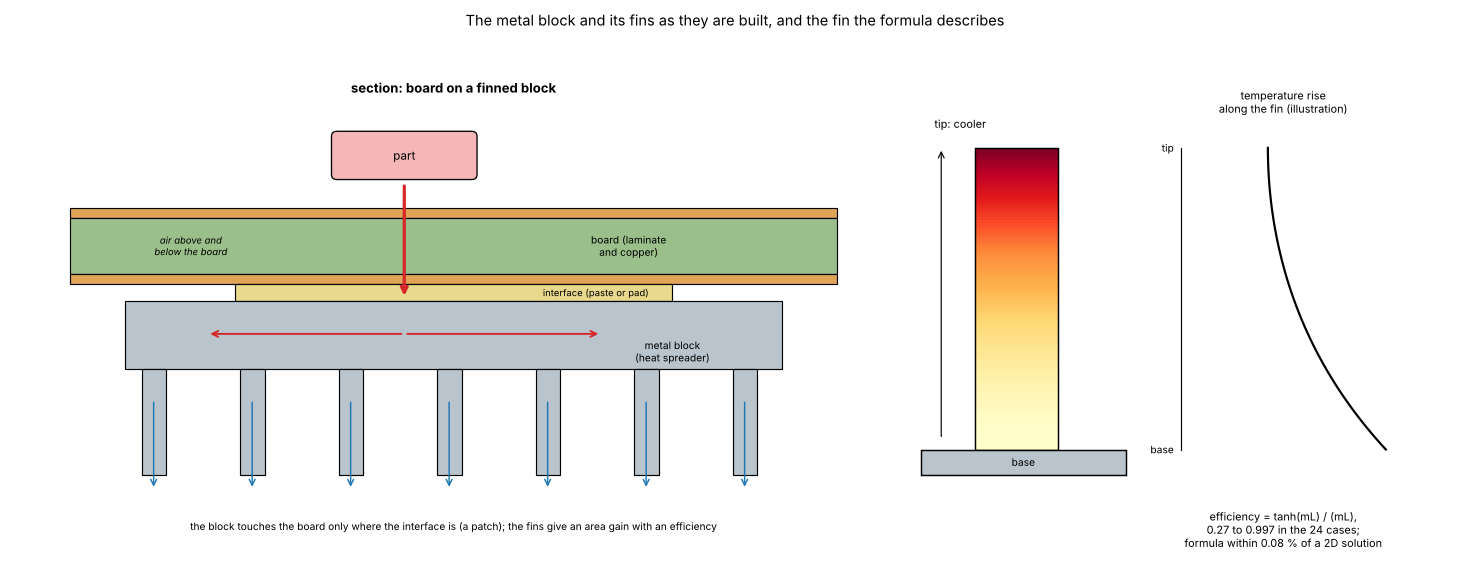
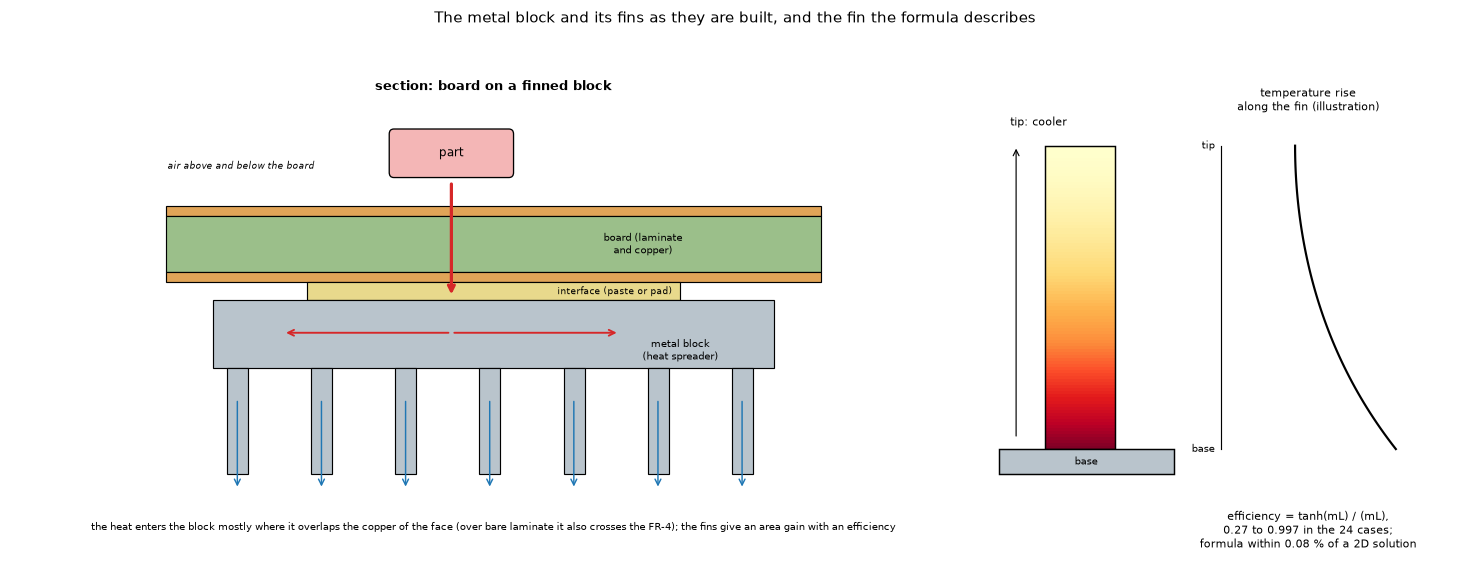
Record that the clean-machine timing waits for the maintainer's order
Claude-Session: https://claude.ai/code/session_012GdjNDamebGatEReFh4rLb

diff --git a/research/block-and-fins/scripts/make_figures.py b/research/block-and-fins/scripts/make_figures.py
@@ -3,8 +3,8 @@
 @brief Pictures of the metal-block and fin studies, written to figures/ (committed, linked from the README files).
 
 @details The numbers come from running the two studies of this folder and reading what they print.
-         fig_01: the fin formula of the program against a 2D solution of one fin (24 cases); fig_02: error of the Lumped and Analytic models on 62 block cases for the three
-         approaches (mean and maximum); fig_03: the error of every case, earlier equivalent coefficient against the implemented block model.
+         fig_01: the fin formula of the program against a 2D solution of one fin (24 cases); fig_02: error of the Lumped and Analytic models on the 74 block cases for the three
+         approaches (mean and maximum); fig_03: the error of every case, earlier equivalent coefficient (Lumped) against the implemented block models (Lumped and Analytic).
 Usage: python research/block-and-fins/scripts/make_figures.py   (from the repository root; about 20 seconds)
 """
 
@@ -98,10 +98,11 @@ def fig_blocks():
     xs = np.arange(len(cases))
     ax.plot(xs, [c[1] for c in cases], "o", color="#9ca3af", label="Lumped, earlier equivalent coefficient")
     ax.plot(xs, [c[3] for c in cases], "o", color="#d97706", label="Lumped, block as a ring layer")
+    ax.plot(xs, [c[4] for c in cases], "s", ms=4, color="#1d4ed8", label="Analytic, block as a tile graph")
     ax.axhline(0, color="black", lw=0.8)
     ax.set_xlabel("Case (block and pad geometry, thickness, metal, interface, fins)")
     ax.set_ylabel("Error of Tmax (%)")
-    ax.set_title("Every case: the coefficient is hot (+), the block layer stays within a few percent", fontsize=10)
+    ax.set_title("Every case: the coefficient is hot (+), the block models stay within a few percent", fontsize=10)
     ax.legend(fontsize=8)
     fig.tight_layout()
     fig.savefig(OUT / "fig_03_block_error_per_case.png", dpi=110)

diff --git a/research/block-and-fins/scripts/make_diagrams.py b/research/block-and-fins/scripts/make_diagrams.py
@@ -135,13 +135,13 @@ def block_section(path):
     for k in range(7):
         dk.arrow(a1, 2.52 + k * 1.8, 1.8, 2.52 + k * 1.8, 0.0, color=dk.BLUE, width=1.0)
     a1.text(8, 7.9, "section: board on a finned block", ha="center", fontsize=9, fontweight="bold")
-    a1.text(3.2, 4.85, "air above and\nbelow the board", ha="center", va="center", fontsize=6.5, style="italic")
-    a1.text(8, -0.8, "the block touches the board only where the interface is (a patch); the fins give an area gain with an efficiency", ha="center", fontsize=7)
+    a1.text(2.6, 6.4, "air above and below the board", ha="center", va="center", fontsize=6.5, style="italic")
+    a1.text(8, -0.8, "the heat enters the block mostly where it overlaps the copper of the face (over bare laminate it also crosses the FR-4); the fins give an area gain with an efficiency", ha="center", fontsize=7)
     # one plate fin: base hot, tip cooler
     a2.set_xlim(0, 8)
     a2.set_ylim(-1.0, 8.2)
     grad = np.linspace(1.0, 0.0, 100).reshape(-1, 1)
-    a2.imshow(grad ** 1.6, extent=(1.0, 2.2, 0.8, 6.8), cmap="YlOrRd", origin="upper", aspect="auto")
+    a2.imshow(grad ** 1.6, extent=(1.0, 2.2, 0.8, 6.8), cmap="YlOrRd", origin="lower", aspect="auto")
     a2.add_patch(Rectangle((1.0, 0.8), 1.2, 6.0, fill=False, edgecolor="k"))
     a2.add_patch(Rectangle((0.2, 0.3), 3.0, 0.5, facecolor=dk.METAL, edgecolor="k"))
     a2.text(1.7, 0.55, "base", ha="center", va="center", fontsize=7)

diff --git a/research/REVIEW.md b/research/REVIEW.md
@@ -76,3 +76,7 @@ A 2-layer board with no copper on the bottom was measured as a one-layer board a
 ## Final figure pass (maintainer: redo all the figures)
 
 After the reviews of the remaining folders have fixed their texts, regenerate **every** figure of every folder (data figures with `make_figures.py`, diagrams with `make_diagrams.py`; also the `gerber-*` folders, fetching their inputs with the folder's fetch script into the git-ignored `data/` when the network allows, and respecting the licences), replace all the PNGs (also those that only differ by the font, so that the whole set is drawn the same way), re-read each one with the image reader, and run the freshness check (`research/check_figures.py`, to write): every figure linked from a README, no broken link, no repeated number, and every folder has at least one data graph and one diagram. Also measure again on a clean machine the cost of the direct solves (3D solid and layered FVM/FDM) with `solid3d-verification/scripts/study_solve_cost.py` extended to the sizes quoted in the documents, then correct the documents (roadmap item in `docs/roadmap.md`).
+
+## Clean-machine timing: waits for the maintainer's order
+
+The maintainer restarts the machine and gives the order; nothing else runs during the measurement. Then: extend `solid3d-verification/scripts/study_solve_cost.py` to the sizes quoted in the documents, run it alone, write the machine and the memory state in the README, correct the documents (`docs/roadmap.md` item to add in the next documents branch, CHANGELOG, `docs/versions.md`, `docs/models.md`, the comment of `pcbthermal/solid3d.py` that still quotes 49 s and 130 s) and feed the memory guard (`feature/memory-guard`).
